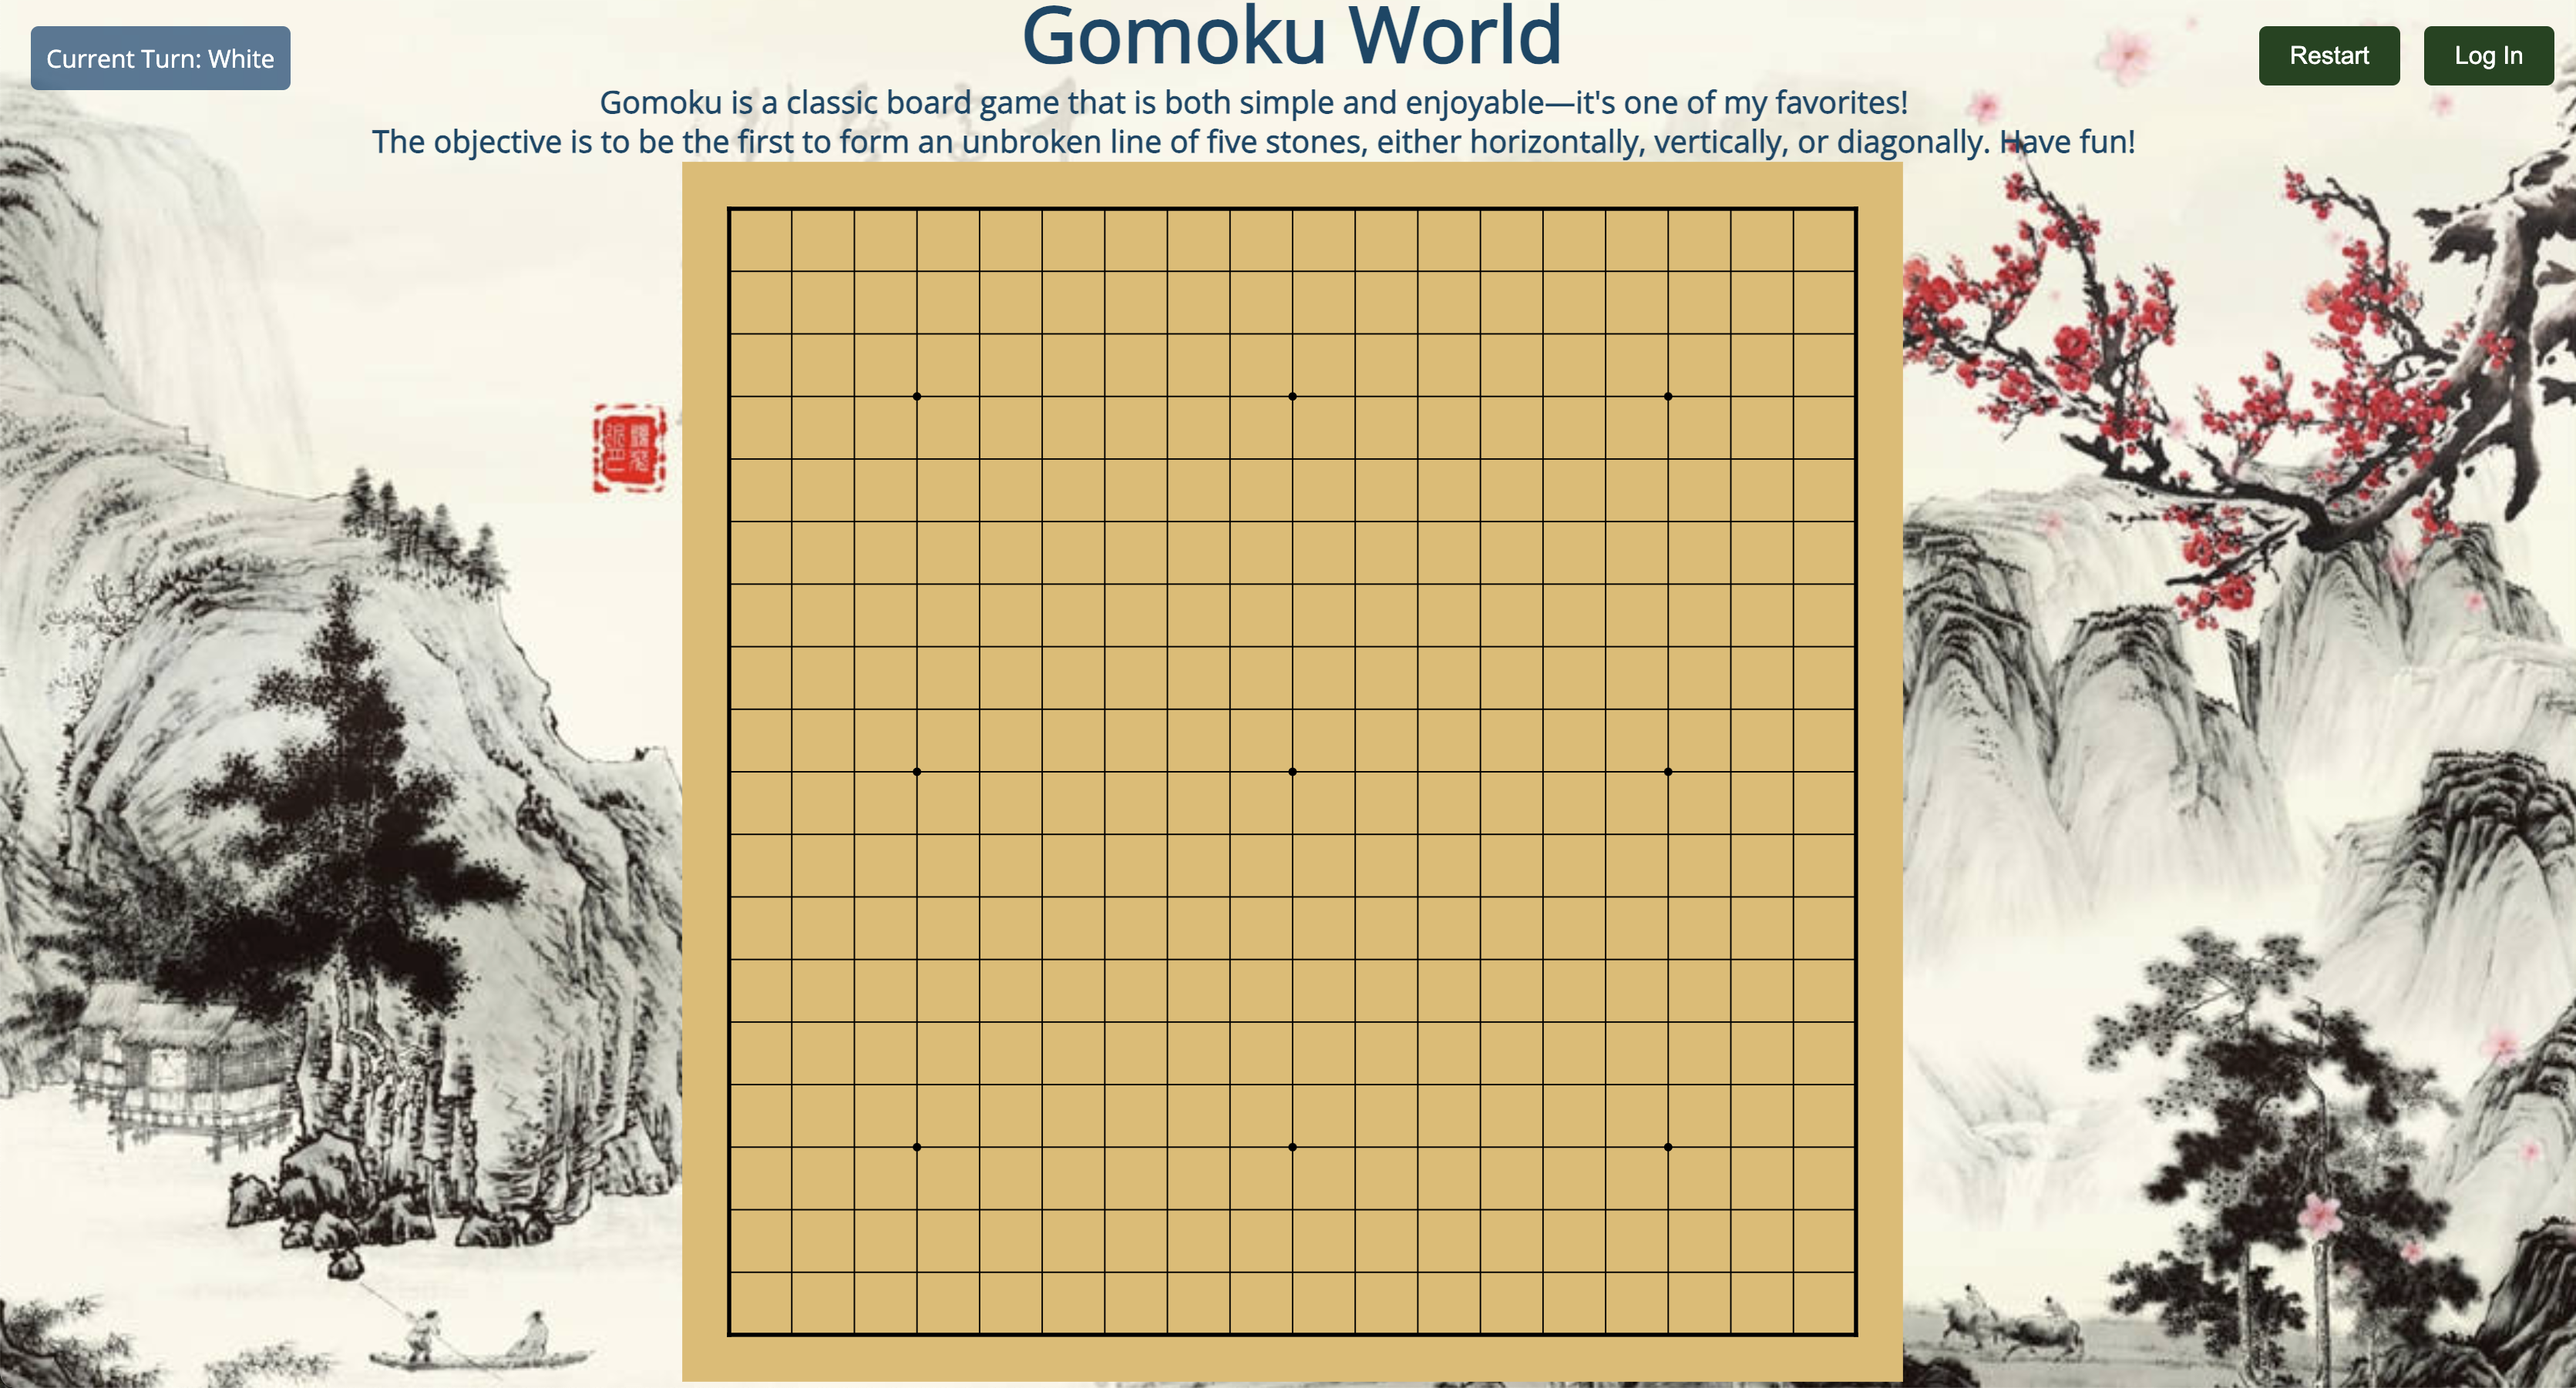
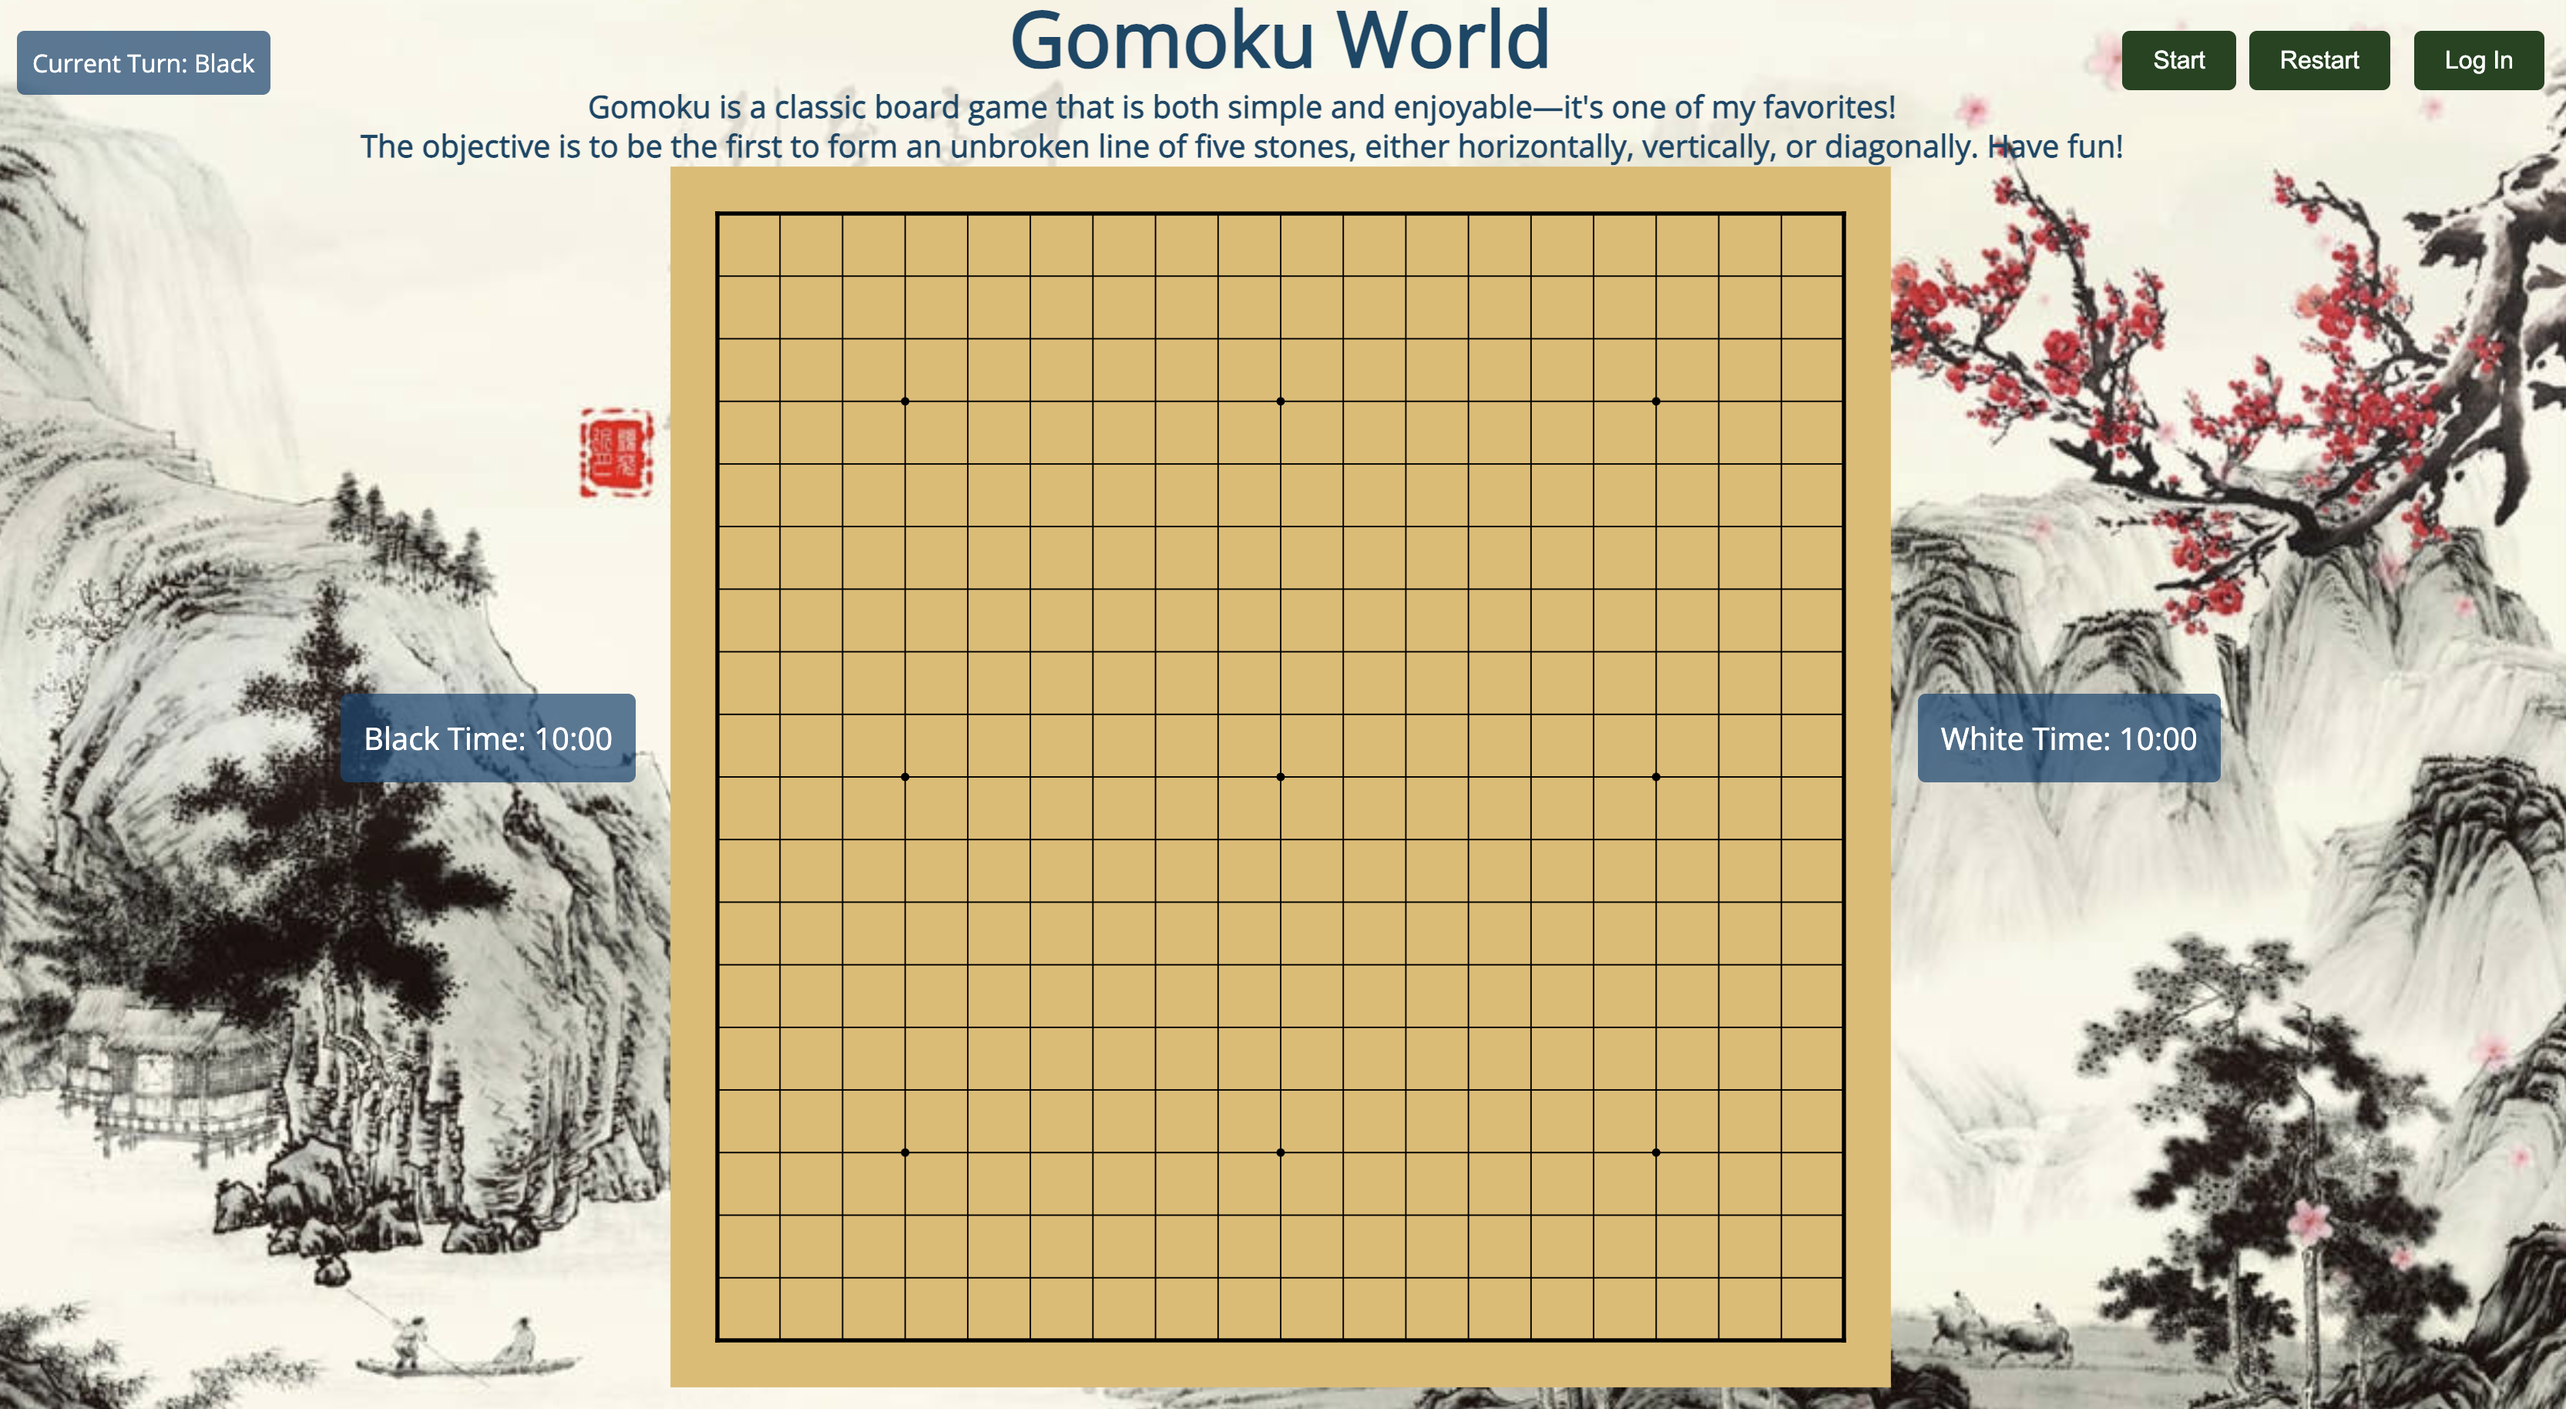
Update timer

Changed region(s): [[0.0, 0.0, 1.0, 1.0], [0.0, 0.0, 0.1249, 0.2486], [0.812, 0.0, 1.0, 0.1243]]

diff --git a/scripts/main.js b/scripts/main.js
@@ -1,32 +1,28 @@
 
+//Setup heading words
 const myHeading = document.querySelector("h1");
 myHeading.textContent = "Gomoku World";
 
-
+//Set user name on event 'login'
 let loginbutton = document.getElementById('login');
-
 loginbutton.onclick = () => {
     setUserName();
   };
 
-function setUserName() {
-    const myName = prompt("Please enter your name.");
-    localStorage.setItem("name", myName);
-    myHeading.textContent = `Gomoku is cool, ${myName}`;
-  }
 
+//Restart game on event 'restart'
 let restartbutton = document.getElementById('restart');
 let gameover = false;
-
 restartbutton.onclick = () =>{
   restartGame();
 };
 
 
-
-  // Variables to track game state
+//**START GAME */
+// Variables to track game state
 let currentPlayer = 'black'; // Start with black
 let boardState = []; // Store the state of the board
+let winner = 'null';
 
 // Select necessary DOM elements
 const chessboard = document.getElementById('chessboard');
@@ -39,8 +35,48 @@ for (let i = 0; i < boardSize; i++) {
     boardState[i] = Array(boardSize).fill(null);
 }
 
-// Calculate the postion point that near the click
+
+// Initial time in seconds (10 minutes)
+let initialTime = 600;
+
+// Player times
+let player1Time = initialTime;
+let player2Time = initialTime;
+
+
+// Interval IDs for timers
+let player1Interval = null;
+let player2Interval = null;
+
+// HTML elements
+const player1TimeDisplay = document.getElementById('player1-time');
+const player2TimeDisplay = document.getElementById('player2-time');
+const player1TimerDiv = document.getElementById('black-timer');
+const player2TimerDiv = document.getElementById('white-timer');
+
+// Update the initial time displays
+player1TimeDisplay.textContent = formatTime(player1Time);
+player2TimeDisplay.textContent = formatTime(player2Time);
+
+
+//Start game on event 'restart'
+let startbutton = document.getElementById('start');
+
+startbutton.onclick = () =>{
+  alert("Game is to begin! Black first.");
+
+  startPlayerTimer(currentPlayer);
+};
+
+
+// Calculate the postion point on event 'click'
 chessboard.addEventListener('click', (event) => {
+
+    // Check if game is over
+    if(gameover){
+      alert("Game is over! Winner is "+winner.charAt(0).toUpperCase() + winner.slice(1)+"!");
+      return;
+    }
     const rect = chessboard.getBoundingClientRect();
     const x = event.clientX - rect.left-135.5;
     const y = event.clientY - rect.top-34;
@@ -49,11 +85,7 @@ chessboard.addEventListener('click', (event) => {
     const gridX = Math.round(x / gridSpacing);
     const gridY = Math.round(y / gridSpacing);
     
-    // Check if game is over
-    if(gameover){
-      alert("Game is over! Winner is "+currentPlayer.charAt(0).toUpperCase() + currentPlayer.slice(1)+"!");
-      return;
-    }
+    
      // Check if the position is already occupied
     if (boardState[gridX][gridY] === null ) {
         placeStone(gridX, gridY);
@@ -67,6 +99,13 @@ chessboard.addEventListener('click', (event) => {
         alert("This grid is occupied! Try again.");
     }
 });
+
+//Function to set user name
+function setUserName() {
+  const myName = prompt("Please enter your name.");
+  localStorage.setItem("name", myName);
+  myHeading.textContent = `Gomoku is cool, ${myName}`;
+}
 
 // Function to place a stone at a given grid position
 function placeStone(gridX, gridY) {
@@ -87,6 +126,8 @@ function placeStone(gridX, gridY) {
 function togglePlayer() {
     currentPlayer = currentPlayer === 'black' ? 'white' : 'black';
     currentPlayerElement.textContent = currentPlayer.charAt(0).toUpperCase() + currentPlayer.slice(1);
+    highlightCurrentPlayer(currentPlayer);
+    startPlayerTimer(currentPlayer);
     console.log(currentPlayer);
 }
 
@@ -107,7 +148,8 @@ function checkWinner(gridX,gridY) {
   }
 
   if(count >= 5){
-    gameover = true;
+    endGame();
+    winner = currentPlayer;
     setTimeout(function() {
       alert(currentPlayer.charAt(0).toUpperCase() + currentPlayer.slice(1) + " wins!");
     }, 200);
@@ -127,7 +169,8 @@ function checkWinner(gridX,gridY) {
       y++;
   }
   if(count >= 5){
-    gameover = true;
+    endGame();
+    winner = currentPlayer;
     setTimeout(function() {
       alert(currentPlayer.charAt(0).toUpperCase() + currentPlayer.slice(1) + " wins!");
     }, 200);
@@ -153,7 +196,8 @@ function checkWinner(gridX,gridY) {
    
   }
   if(count >= 5){
-    gameover = true;
+    endGame();
+    winner = currentPlayer;
     setTimeout(function() {
       alert(currentPlayer.charAt(0).toUpperCase() + currentPlayer.slice(1) + " wins!");
     }, 200);
@@ -178,7 +222,8 @@ function checkWinner(gridX,gridY) {
   }
   
   if(count >= 5){
-    gameover = true;
+    endGame();
+    winner = currentPlayer;
     setTimeout(function() {
       alert(currentPlayer.charAt(0).toUpperCase() + currentPlayer.slice(1) + " wins!");
     }, 200);
@@ -192,6 +237,7 @@ function checkWinner(gridX,gridY) {
 // Set status to initial status, restart the game
 function restartGame(){
   gameover = false;
+  winner = 'null';
   currentPlayer = 'black';
   for (let i = 0; i < boardSize; i++) {
     boardState[i] = Array(boardSize).fill(null);
@@ -200,7 +246,85 @@ function restartGame(){
   
   const stones = document.querySelectorAll('.stone');
   stones.forEach(stone => stone.remove());
+  player1Time = initialTime;
+  player2Time = initialTime;
+  player1TimeDisplay.textContent = formatTime(player1Time);
+  player2TimeDisplay.textContent = formatTime(player2Time);
+
+  alert("Game is to restart! Black first.");
+  startPlayerTimer(currentPlayer);
   console.log("Restart the game.");
 
+}
+
+
+// Function to format time in MM:SS
+function formatTime(seconds) {
+  const mins = Math.floor(seconds / 60);
+  const secs = seconds % 60;
+  return `${mins.toString().padStart(2, '0')}:${secs.toString().padStart(2, '0')}`;
+}
+
+// Function to start the timer for the current player
+function startPlayerTimer(player) {
+  stopAllTimers(); // Ensure other timers are stopped
+
+  if (player === "black") {
+      highlightCurrentPlayer(player);
+
+      player1Interval = setInterval(() => {
+          player1Time--;
+          player1TimeDisplay.textContent = formatTime(player1Time);
+
+          if (player1Time <= 0) {
+              clearInterval(player1Interval);
+              winner = 'white';
+              alert('Black has run out of time. White wins!');
+              endGame();
+          }
+      }, 1000);
+  } else{
+      highlightCurrentPlayer(player);
+
+      player2Interval = setInterval(() => {
+          player2Time--;
+          player2TimeDisplay.textContent = formatTime(player2Time);
+
+          if (player2Time <= 0) {
+              clearInterval(player2Interval);
+              winner = 'black';
+              alert('White has run out of time. Black wins!');
+              endGame();
+          }
+      }, 1000);
+  }
+}
+
+// Function to stop all timers
+function stopAllTimers() {
+  clearInterval(player1Interval);
+  clearInterval(player2Interval);
+  player1Interval = null;
+  player2Interval = null;
+}
+
+// Function to highlight the current player
+function highlightCurrentPlayer(player) {
+  if (player === 'black') {
+      player1TimerDiv.classList.add('current-player');
+      player2TimerDiv.classList.remove('current-player');
+  } else {
+      player2TimerDiv.classList.add('current-player');
+      player1TimerDiv.classList.remove('current-player');
+  }
+}
+
+
+// Function to handle game end
+function endGame() {
+  gameover = true;
+  console.log(winner);
+  stopAllTimers();
+  
 }
 

diff --git a/index.html b/index.html
@@ -69,6 +69,19 @@
         cursor: pointer;
         }
 
+        #start {
+        position: absolute;   /* Enables absolute positioning */
+        top: 20px;            /* Distance from the top of the page */
+        right: 220px;          /* Distance from the right edge of the page */
+        padding: 10px 20px;
+        font-size: 16px;
+        background-color: #1c441d;
+        color: white;
+        border: none;
+        border-radius: 5px;
+        cursor: pointer;
+        }
+
         #turnIndicator {
         position: absolute;
         top: 20px;
@@ -81,9 +94,41 @@
         border-radius: 5px;
       }
 
+        #black-timer {
+          position: absolute;
+          top: 450px;
+          left: 230px;
+          margin: 0;
+          padding: 15px;
+          font-size: 20px;
+          background-color: #084573b7;
+          color: white;
+          border-radius: 5px;
+      }
+
+        #white-timer {
+          position: absolute;
+          top: 450px;
+          right: 230px;
+          margin: 0;
+          padding: 15px;
+          font-size: 20px;
+          background-color: #084573b7;
+          color: white;
+          border-radius: 5px;
+      }
+
+      #black-timer.current-player,
+      #white-timer.current-player {
+          color: rgb(208, 17, 17);
+      }
+        
 
     </style>
     <link rel="stylesheet" href="https://fonts.googleapis.com/css?family=Open+Sans" />
+
+    <script src="scripts/main.js" defer></script>
+
   </head>
   
   <body>
@@ -93,9 +138,15 @@
     <h4>The objective is to be the first to form an unbroken line of five stones, either horizontally, vertically, or diagonally. Have fun!</h4>
     <button id = "login">Log In</button>
     <button id = "restart">Restart</button>
+    <button id = "start">Start</button>
+    <div id="black-timer" class="timer">
+        Black Time: <span id="player1-time">10:00</span>
+    </div>
+    <div id="white-timer" class="timer">
+        White Time: <span id="player2-time">10:00</span>
+    </div>
     
     <div class="chessboard-container" id="chessboard"></div>
     <p id="turnIndicator">Current Turn: <span id="currentPlayer">Black</span></p></div>
-    <script src="scripts/main.js"></script>
   </body>
 </html>

diff --git a/README.md b/README.md
@@ -26,6 +26,7 @@ Welcome to the **Gomoku Game - Two Player Edition**! This is a classic board gam
 - **Two-Player Local Gameplay**: Play with a friend on the same device.
 - **Intuitive GUI**: Easy-to-use graphical user interface.
 - **Winning Highlight**: Highlights the winning sequence of stones.
+- **Timer** :Each player has 10 minutes to play.
 - **Restart Game**: Option to restart the game at any time. 
 - **Responsive Design**: Adjusts to different screen sizes. 
 - **Cross-Platform Compatibility**: Runs on any modern web browser.
@@ -99,6 +100,7 @@ Welcome to the **Gomoku Game - Two Player Edition**! This is a classic board gam
   - Players take turns clicking on an empty grid cell to place their stone.
 - **Winning the Game**:
   - The first player to align five stones horizontally, vertically, or diagonally wins.
+  - The player wins whose rival reaches the time limit.
 <!--
 - **Undo Move**: Click the 'Undo' button to revert the last move.
 - **Restart Game**: Click the 'Restart' button to start a new game.
